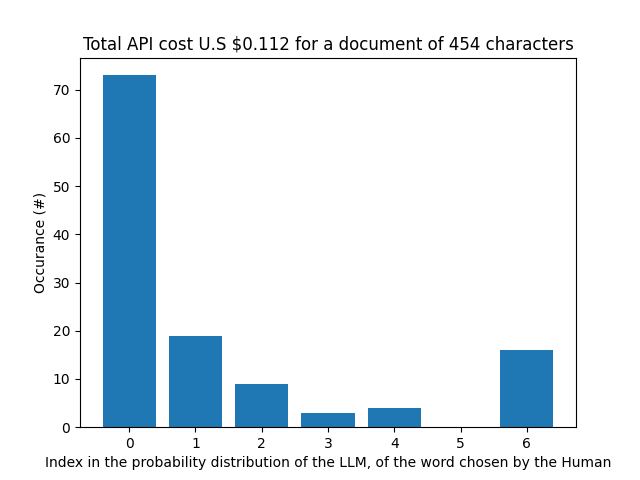
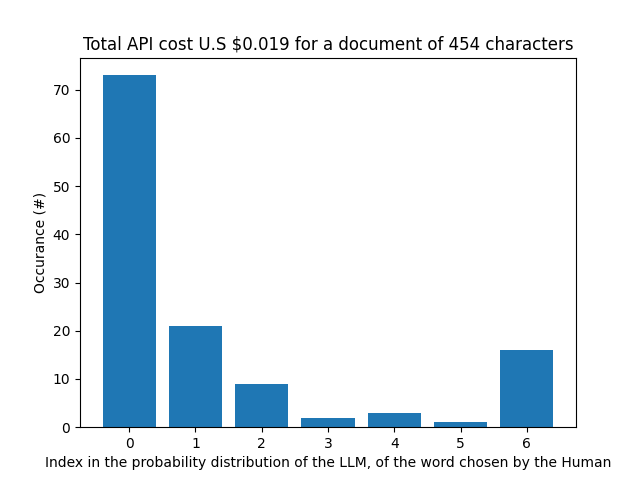
include davinci text sample

diff --git a/prototype.py b/prototype.py
@@ -7,19 +7,18 @@ from openai import OpenAI
 from dotenv import load_dotenv
 import matplotlib.pyplot as plt
 
+FILE_NAME = sys.argv[1]
+TOKEN_TO_CONSIDER = 7
+MODEL_ID = "davinci-002"
+
 input_tokens = output_tokens = 0
 price_per_token = {"davinci-002": (0.000002, 0.000002), "gpt-3.5-turbo-1106": (0.000001,0.000001),  "babbage-002": (0.0000004, 0.0000004), "gpt-4o": (0.000005, 0.000015), "gpt-4-turbo": (0.00001, 0.00003)} 
-
-encoder = tiktoken.encoding_for_model("text-davinci-002")
+encoder = tiktoken.encoding_for_model(MODEL_ID)
 
 
 def prompt_template(sequence):
     return f"Complete the sentence, provide only a single word as output: {sequence}"
 
-
-FILE_NAME = sys.argv[1]
-TOKEN_TO_CONSIDER = 7
-MODEL_ID = "davinci-002"
 
 with open(FILE_NAME, "r") as file:
     lines = file.readlines()

diff --git a/README.md b/README.md
@@ -40,6 +40,10 @@ Short human-generated text (```./data/human-input-small.txt```):
 
 ![](results/result_plot-gpt4o-input.png)
 
+- Davinci-002 generated text ( ```./data/davinci-002-input.txt```):
+
+![](results/result_plot-davinci-002-input.png)
+
 ## Cost Analysis
 
 ![](cost-analysis/cost_per_char_inf_sequence_window.png)
@@ -54,12 +58,10 @@ For instance, ```./data/gpt4o-input.txt```, indicates a text file written by the
 
 ## Current Limitations to address
 
-- [ ]  The API endpoint I currently rely on, is not compatible with the newer instruction fine-tuned models (GPT 4 & 3.5).
+- [ ] The API endpoint I currently rely on, is not compatible with the newer instruction fine-tuned models (GPT 4 & 3.5).
 
 - [ ] I give the model the entire previously seen text, which can become very long after parsing a document. Based on the length of the input document, it results in an exponential token consummation, which will be very costly!
 
 - [ ] Currently, no obvious visual difference is observed between samples written by humans and LLMs. It may be due to the very small size of the log probability distribution returned by the ```davinci-002``` model (usually only 5).
-
-- [ ] ```davinci-002``` is one of the most expensive models, priced at 12$/ 1M input and output tokens.
 
 - [ ] Frequencies shall be normalised over the length of the document
